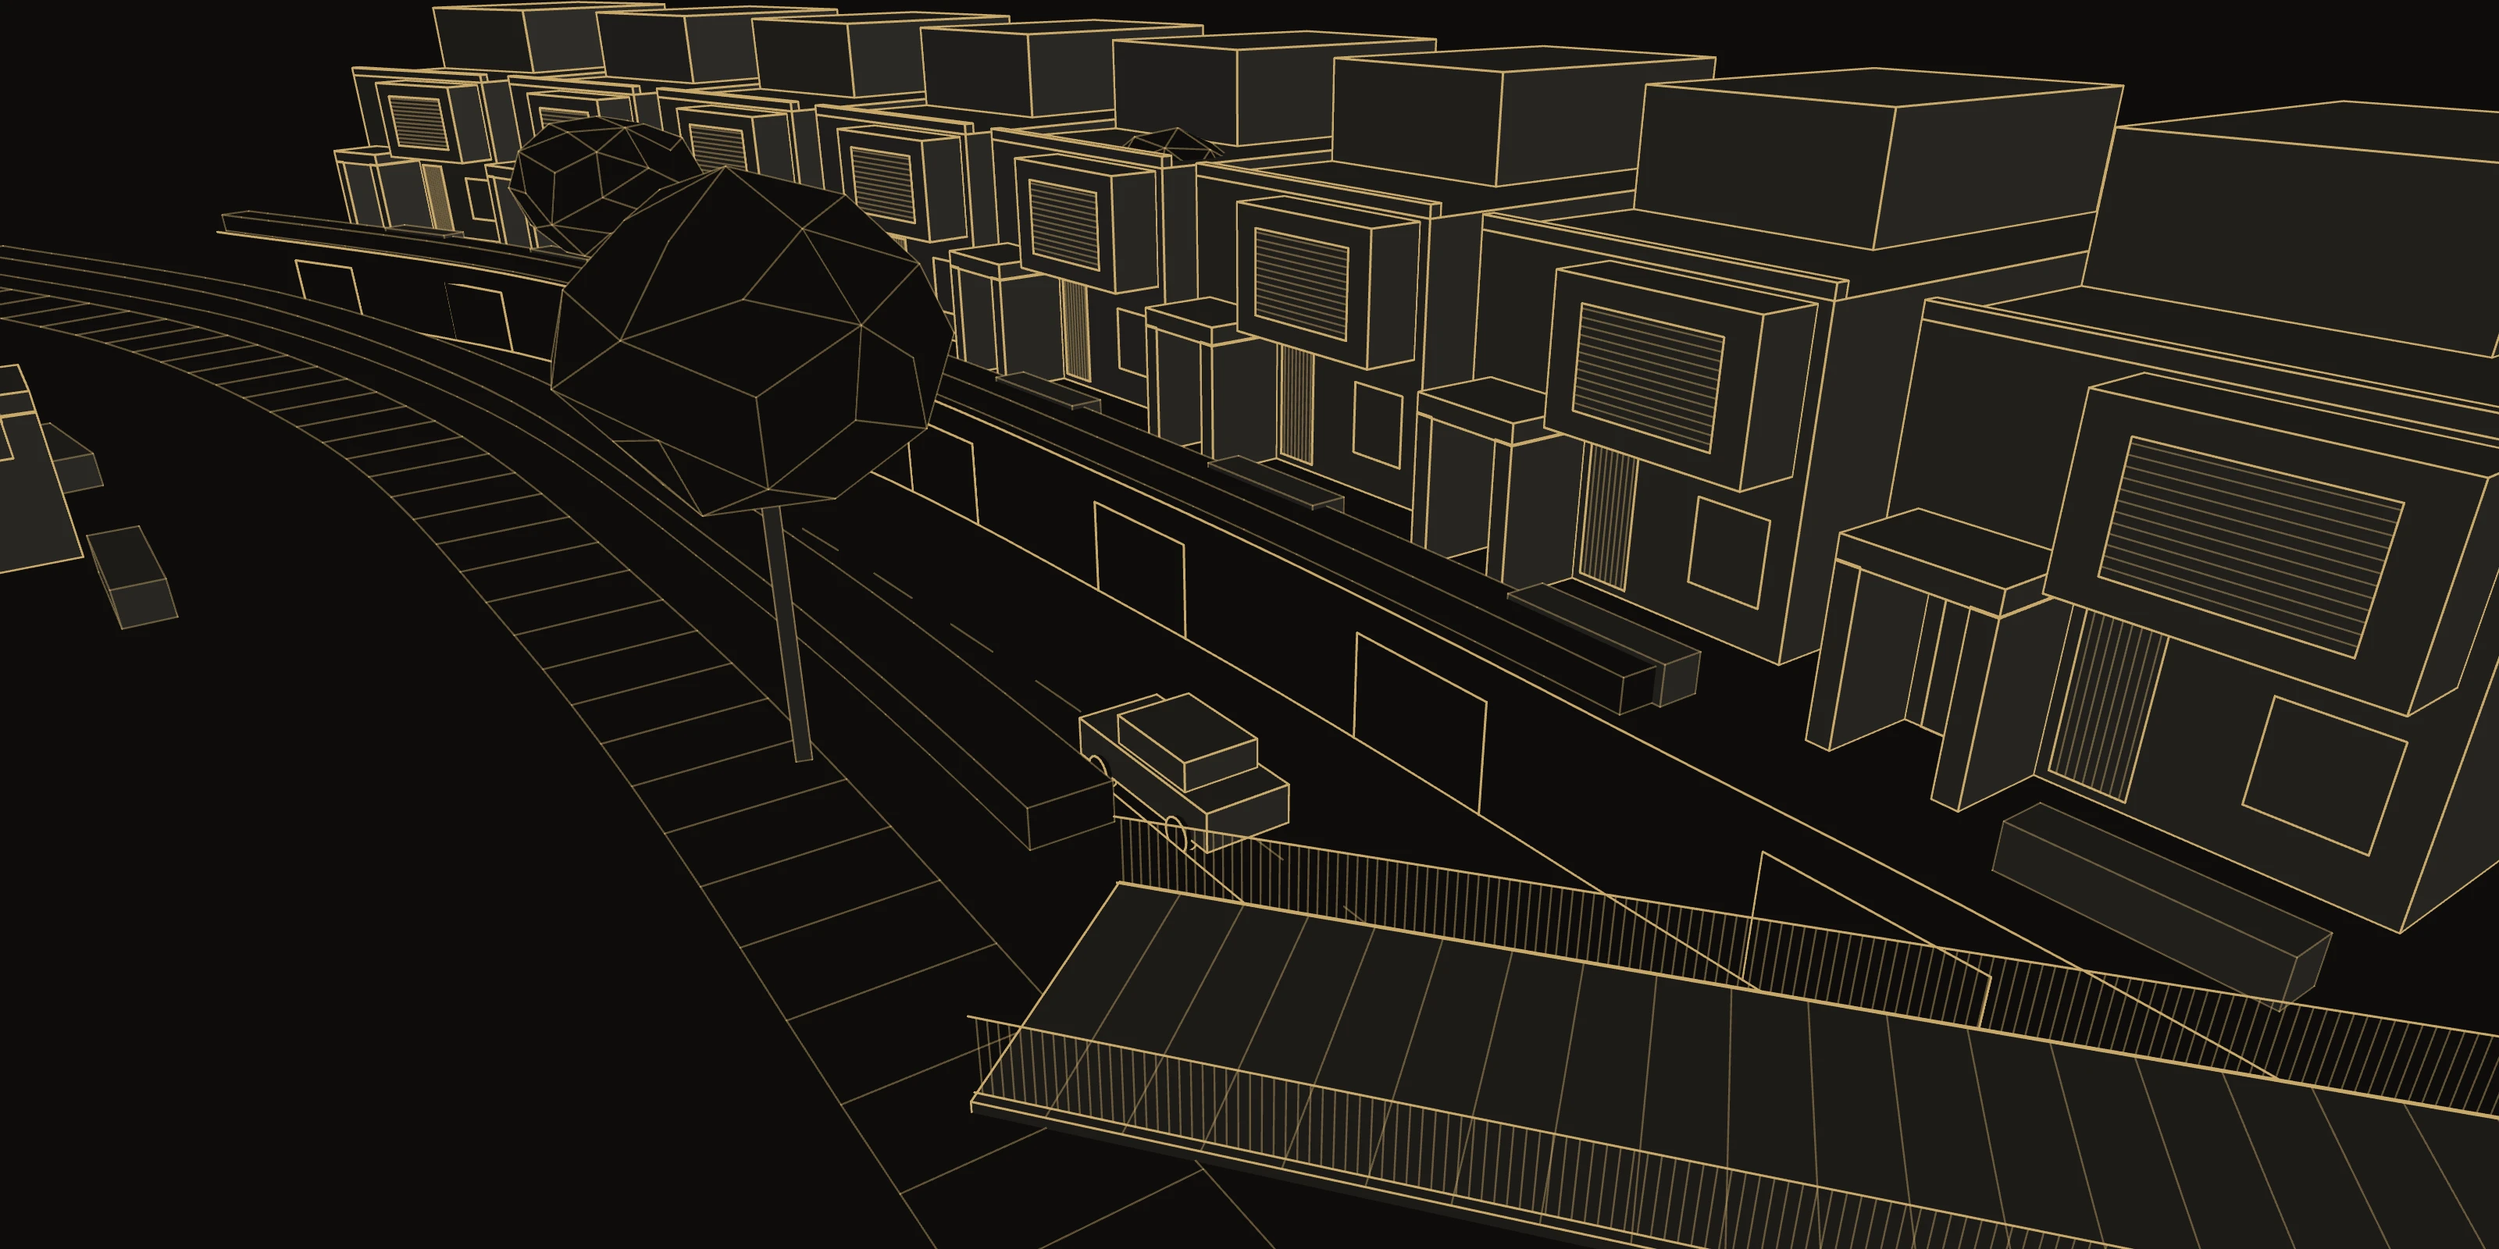
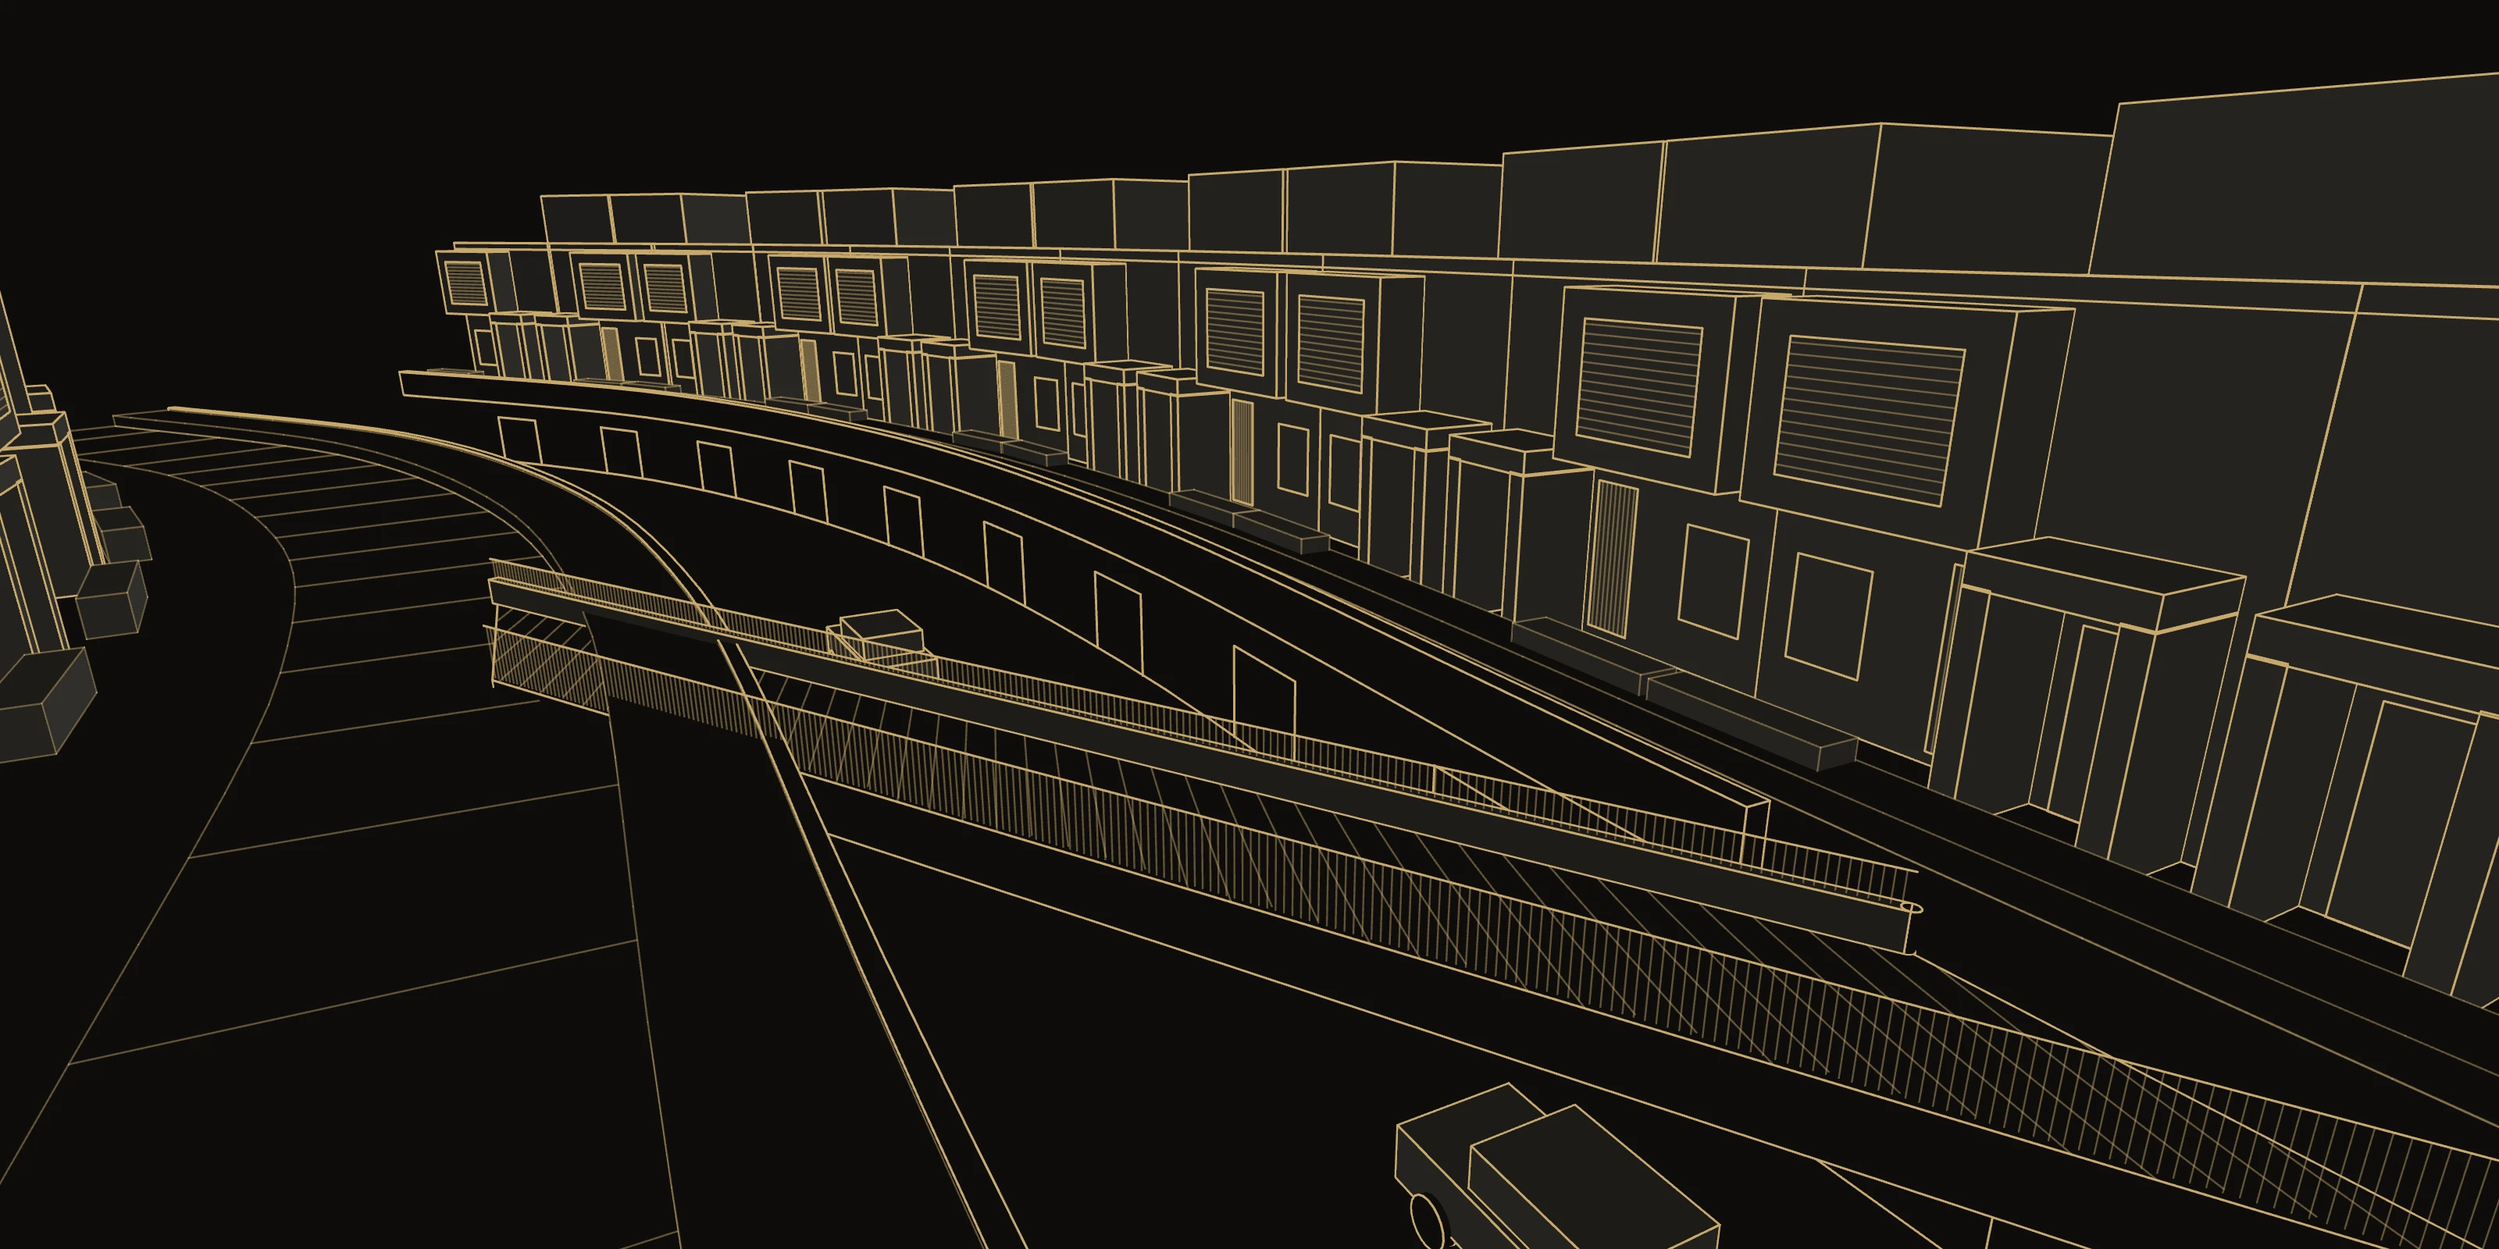
Walkway redrawn from the brochure image
The scene is rebuilt from the brochure's walkway image (page 10, the
same render as the website's), not from the earlier tracing. Camera,
road width, wall height and bridge position are solved from lines read
off the image (tools/ink/fit-walkway.cjs): the foot and top of the right
retaining wall, the foot of the house portals, the top of both bridge
parapets and the parapet's rounded end. The bridge is drawn as the
image shows it: a thick white deck cut along the road at each end, dense
white bars on the near edge, a low solid wall with bars on the far edge
ending in a rounded end on the walk in front of the houses, diagonal
paving. Right bank: garage openings, a solid white wall, the walk, a
planter, the houses (taller, to match the image). Left bank: a low wall,
a planter, the wide walk, the other row. Overlay: both parapets and the
car under the bridge land on the image.

Claude-Session: https://claude.ai/code/session_01C95DWHDY8NmwjfweiUBywE

diff --git a/tools/drawings/scenes/walkway.js b/tools/drawings/scenes/walkway.js
@@ -19,7 +19,10 @@ function along(pts, s) {
 
 /** 白色方盒子房子：局部正面在 z = 0 朝 +z，宽 8.4 */
 function whiteHouse(k, x, z, ry, flip = false) {
-  const { box, seg } = k.place(x, z, ry), f = flip ? -1 : 1
+  // heights 1.2× the first tracing: against the render the houses stand that much taller over their door portals
+  const pl = k.place(x, z, ry), f = flip ? -1 : 1, Y = 1.2
+  const box = (bx, by, bz, w, h, d, o) => pl.box(bx, by * Y, bz, w, h * Y, d, o)
+  const seg = (pairs, soft) => pl.seg(pairs.map(([p, q]) => [[p[0], p[1] * Y, p[2]], [q[0], q[1] * Y, q[2]]]), soft)
   const rect = (x0, y0, x1, y1, zz, soft = false) => seg([[[x0, y0, zz], [x1, y0, zz]], [[x1, y0, zz], [x1, y1, zz]], [[x1, y1, zz], [x0, y1, zz]], [[x0, y1, zz], [x0, y0, zz]]], soft)
   box(0, 3.3, -6.5, 8.4, 6.6, 13)                                            // 两层主体
   box(-f * 1.2, 7.9, -8.5, 6, 2.6, 8)                                       // 三楼往后退
@@ -41,98 +44,98 @@ function whiteHouse(k, x, z, ry, flip = false) {
   box(f * 2.2, 0.4, 2.6, 3.8, 0.8, 0.9, { soft: true })                     // 门前花槽
 }
 
-// the bridge, placed against the render: moved SH metres along the road from where the line drawing first had it
-const SH = 0, SHIFT = [-0.24 * SH, -0.97 * SH]
-export const BRIDGE = { A: [-6.4 + SHIFT[0], 3.2 + SHIFT[1]], B: [10 + SHIFT[0], 14.6 + SHIFT[1]], W: 4.6, shift: SHIFT }
+// ── 照手册第 10 页（同网站效果图）重画：一条下沉的车道笔直往远处去、远处往左弯；右岸是挡土墙（墙上一户一个车库口）、
+// 墙顶一道白色实墙、一条铺地人行道、一排花槽、一排白房子；左岸是车道边一道矮白墙 + 花槽、宽的铺地人行道、再过去另一排房子。
+// 人行桥从左岸人行道斜着跨过车道，落在右岸、房子前的人行道上。米数按图估，镜头对着效果图调。
+// fitted to the render (lines through the road's vanishing point, the bridge's two parapets): see tools/ink/fitw notes in the commit
+const DEPTH = 3.2, HALF = 5.6, WALL = 1.3, PORTAL = 4.5
+// the bridge: left end on the left-bank walk, right end on the walk in front of the houses (x across the road, z along it)
+export const BRIDGE = { A: [-8.15, -8.4], B: [3.56, 11.3], W: 3.5 }
+export const VIEW = { eye: [-8.2, 8.9, 21.2], at: [7.8, -1.35, -8.6], fov: 51.5 }
 
 export default function walkway(k) {
-  const { tree, bush, smoothLine, line, slabShape, seg, box, mesh } = k
-  const eye = [-9, 12, 19], DEPTH = 3.2
+  const { smoothLine, line, slabShape, seg, box, mesh } = k
   k.groundPlane(-DEPTH)
-
-  // ── 下沉车道：中线、两边挡土墙（左右两大块地面从车道底挤到 0）
-  const C = smoothLine([[6.5, 40], [3.5, 14], [0, 0], [-4.5, -14], [-11, -30], [-21, -46], [-34, -60]], 8)
-  const LE = offset(C, 4), RE = offset(C, -4)
-  // 两岸地面 + 两道挡土墙：沿车道的条带（不三角剖分），边线自己画
-  k.ribbon(LE, offset(C, 90), 0, 0); k.ribbon(RE, offset(C, -90), 0, 0)
+  // the road's centre line: straight past the bridge, bending left far away (offset > 0 is the left bank)
+  const C = smoothLine([[0, 34], [0, 10], [0, -12], [-2.5, -30], [-9, -48], [-20, -64]], 8)
+  const LE = offset(C, HALF), RE = offset(C, -HALF)
+  k.ribbon(LE, offset(C, 60), 0, 0); k.ribbon(RE, offset(C, -60), 0, 0)
   k.ribbon(LE, LE, 0, -DEPTH); k.ribbon(RE, RE, 0, -DEPTH)
-  // 边线只画到相机前面（穿过相机平面的长线段会被线材质裁成很怪的斜线）
-  const front = (pts) => pts.filter(([, z]) => z < eye[2] - 2)
-  line(front(LE), 0); line(front(RE), 0); line(front(LE), -DEPTH); line(front(RE), -DEPTH)
-  // 车道中线（虚线，软）
-  const dash = []
-  for (let i = 0; i < C.length - 1; i += 2) dash.push([[C[i][0], -DEPTH + 0.01, C[i][1]], [C[i + 1][0], -DEPTH + 0.01, C[i + 1][1]]])
-  seg(dash, true)
+  line(LE, 0); line(RE, 0); line(LE, -DEPTH); line(RE, -DEPTH)
+  const strip = (d0, d1, y0, h, o = {}) => slabShape([...offset(C, d0), ...offset(C, d1).reverse()], y0, h, o.soft ?? true)
 
-  // ── 右边一排房子 + 每户下面一个车库口（在挡土墙上）
-  const RH = offset(C, -4 - 4.2), GAR = offset(C, -4 + 0.02)
-  for (let s = 6, i = 0; s < 130; s += 10, i++) {
-    const a = along(RH, s); if (!a) break
-    const [[x, z], [tx, tz]] = a, nx = tz, nz = -tx                         // 朝车道（左法线）
-    const ry = Math.atan2(nx, nz)
-    if (z > 12 || z < -70) continue
-    whiteHouse(k, x, z, ry, false)
-    const g = along(GAR, s); if (!g) continue
-    const [[gx, gz], [gtx, gtz]] = g, h = 2.4
-    const p = [gx - gtx * 1.9, gz - gtz * 1.9], q = [gx + gtx * 1.9, gz + gtz * 1.9]
-    seg([[[p[0], -DEPTH, p[1]], [p[0], -DEPTH + h, p[1]]], [[p[0], -DEPTH + h, p[1]], [q[0], -DEPTH + h, q[1]]], [[q[0], -DEPTH + h, q[1]], [q[0], -DEPTH, q[1]]]])
+  // ── right bank: a garage opening per house in the retaining wall, a solid white wall along the top,
+  //    the paved walk, a planter, the houses
+  const GAR = offset(C, -HALF + 0.02)
+  for (let s = 3; s < 110; s += 8.4) {
+    const a = along(GAR, s), b = along(GAR, s + 3); if (!a || !b) break
+    const [[x0, z0]] = a, [[x1, z1]] = b
+    seg([[[x0, -DEPTH, z0], [x0, -DEPTH + 2.4, z0]], [[x0, -DEPTH + 2.4, z0], [x1, -DEPTH + 2.4, z1]], [[x1, -DEPTH + 2.4, z1], [x1, -DEPTH, z1]]])
   }
-  // 左边远处一排（只看得到一部分）
-  const LH = offset(C, 4 + 14)
-  for (let s = 20; s < 130; s += 10) {
+  const beyond = ([x, z]) => { const { A, B, W } = BRIDGE, dx = B[0] - A[0], dz = B[1] - A[1], L = Math.hypot(dx, dz); return Math.abs(((x - A[0]) * -dz + (z - A[1]) * dx) / L) > W / 2 }   // the parapet stops where the bridge lands          // the parapet stops where the bridge lands
+  const runs = (pts) => { const out = []; let cur = []; pts.forEach((p) => { if (beyond(p)) cur.push(p); else if (cur.length) { out.push(cur); cur = [] } }); if (cur.length) out.push(cur); return out }
+  const P0 = offset(C, -HALF), P1 = offset(C, -HALF - 0.45)
+  for (const r of runs(P0.map((p, i) => [...p, i]))) {
+    const idx = r.map((p) => p[2]); if (idx.length < 2) continue
+    slabShape([...idx.map((i) => P0[i]), ...idx.map((i) => P1[i]).reverse()], 0, WALL)
+  }
+  line(offset(C, -HALF - 3.0), 0.01, true)                                               // walk / planter edge
+  strip(-HALF - 3.0, -HALF - PORTAL + 0.1, 0, 0.55)                                      // planter in front of the houses
+  const RH = offset(C, -HALF - PORTAL - 2.0)                                              // house fronts: the portals stand 2 m proud
+  for (let s = 0, i = 0; s < 120; s += 8.4, i++) {
+    const a = along(RH, s); if (!a) break
+    const [[x, z], [tx, tz]] = a
+    if (z > 40) continue
+    whiteHouse(k, x, z, Math.atan2(tz, -tx), i % 2 === 1)               // facing the road
+  }
+
+  // ── left bank: a low white wall at the road edge, a planter, the wide paved walk, the other row of houses
+  strip(HALF, HALF + 0.3, 0, 0.6, { soft: false })
+  strip(HALF + 0.3, HALF + 2.6, 0, 0.5)
+  line(offset(C, HALF + 2.6), 0.01, true); line(offset(C, HALF + 8.4), 0.01, true)
+  const pj = [], Q1 = offset(C, HALF + 2.6), Q2 = offset(C, HALF + 8.4)
+  for (let i = 0; i < Q1.length; i += 2) pj.push([[Q1[i][0], 0.01, Q1[i][1]], [Q2[i][0], 0.01, Q2[i][1]]])
+  seg(pj, true)
+  const LH = offset(C, HALF + 14.5)
+  for (let s = 12; s < 120; s += 8.4) {
     const a = along(LH, s); if (!a) break
     const [[x, z], [tx, tz]] = a
-    if (z > -8) continue
+    if (z > 0) continue
     whiteHouse(k, x, z, Math.atan2(-tz, tx), true)
   }
 
-  // ── 两岸的花槽（桥落脚的地方断开）+ 左边人行道
-  const strip = (pts, d0, d1, keep) => {
-    const a = offset(pts, d0), b = offset(pts, d1), runs = []
-    let cur = []
-    a.forEach((p, i) => { if (keep(p)) cur.push(i); else if (cur.length) { runs.push(cur); cur = [] } })
-    if (cur.length) runs.push(cur)
-    for (const r of runs) if (r.length > 2) slabShape([...r.map((i) => a[i]), ...r.map((i) => b[i]).reverse()], 0, 0.7, true)
-  }
-  const offBridge = ([, z]) => z < BRIDGE.A[1] - 3.2 || z > BRIDGE.B[1] + 4.4
-  strip(C, -4.4, -5.6, offBridge); strip(C, 4.4, 5.8, offBridge)
-  line(offset(C, 7.2), 0.01, true); line(offset(C, 10), 0.01, true)
-  const pj = [], P1 = offset(C, 7.2), P2 = offset(C, 10)
-  for (let i = 0; i < P1.length; i++) pj.push([[P1[i][0], 0.01, P1[i][1]], [P2[i][0], 0.01, P2[i][1]]])
-  seg(pj, true)
-
-  // ── 人行桥：斜着跨过车道，桥面 + 两边密竖条栏杆 + 桥面铺地缝
+  // ── the bridge, as the render draws it: a thick white deck (about 1 m of white edge shows over the road),
+  //    dense white bars along the near edge, a low solid wall with bars on it along the far edge ending in a rounded end
+  //    where it lands by the houses, paving laid in long diagonal strips
+  // its two ends are cut along the line of the road, as in the render: the far parapet stops (rounded end) at the edge of
+  // the right-hand walk while the near edge runs on towards the camera
   const { A, B, W } = BRIDGE, dx = B[0] - A[0], dz = B[1] - A[1], L = Math.hypot(dx, dz)
   const ux = dx / L, uz = dz / L, vx = -uz, vz = ux
-  // 照效果图：桥面是一块厚的白板（跨过车道那段看得到约 1 m 厚的白色板边），近的一边板边上一排密白竖条，
-  // 远的一边是一道矮的白实墙、墙上再一排竖条，在桥落到房子前人行道的那头收成圆头；桥面铺地是斜向的长条
-  const RY = Math.atan2(-dz, dx), cx = (A[0] + B[0]) / 2, cz = (A[1] + B[1]) / 2
-  box(cx, -0.85, cz, L, 1.0, W, { ry: RY })                                            // 桥板：面在 0.15
-  const far = (t, y) => [A[0] + ux * t - vx * (W / 2 - 0.12), y, A[1] + uz * t - vz * (W / 2 - 0.12)]
-  box(cx - vx * (W / 2 - 0.12), 0.45, cz - vz * (W / 2 - 0.12), L, 0.6, 0.24, { ry: RY })                // 远边的矮实墙
-  const [ex, , ez] = far(L, 0)
-  mesh(new k.THREE.CylinderGeometry(0.12, 0.12, 0.6, 16).translate(ex, 0.45, ez), { angle: 40 })        // 墙在落脚那头的圆头
+  const XL = -HALF - 4.4, XR = HALF + 0.45                                                     // left walk / right walk
+  const side = (sgn, inset = 0) => { const o = sgn * (W / 2 - inset), px = A[0] + vx * o, pz = A[1] + vz * o; return (X) => [X, px === X ? pz : pz + ((X - px) / ux) * uz] }
+  const far = side(-1), near = side(1), farIn = side(-1, 0.12), nearIn = side(1, 0.12)
+  slabShape([far(XL), far(XR), near(XR), near(XL)], -0.85, 1.0, false)                         // the deck: a thick white slab, top at 0.15
+  const wall = [farIn(XL), farIn(XR)], wl = Math.hypot(wall[1][0] - wall[0][0], wall[1][1] - wall[0][1])
+  box((wall[0][0] + wall[1][0]) / 2, 0.45, (wall[0][1] + wall[1][1]) / 2, wl, 0.6, 0.24, { ry: Math.atan2(-(wall[1][1] - wall[0][1]), wall[1][0] - wall[0][0]) })
+  mesh(new k.THREE.CylinderGeometry(0.12, 0.12, 0.6, 16).translate(wall[1][0], 0.45, wall[1][1]), { angle: 40 })   // the rounded end
   const rails = [], soft = []
-  for (const [sgn, y0] of [[1, 0.15], [-1, 0.75]]) {
-    const ox = vx * sgn * (W / 2 - 0.12), oz = vz * sgn * (W / 2 - 0.12)
-    const P = (t, y) => [A[0] + ux * t + ox, y, A[1] + uz * t + oz]
-    rails.push([P(0, 1.25), P(L, 1.25)])
-    for (let t = 0.1; t < L; t += 0.13) soft.push([P(t, y0), P(t, 1.25)])
+  for (const [S, y0] of [[nearIn, 0.15], [farIn, 0.75]]) {
+    const [p, q] = [S(XL), S(XR)], len = Math.hypot(q[0] - p[0], q[1] - p[1])
+    const at = (t, y) => [p[0] + ((q[0] - p[0]) * t) / len, y, p[1] + ((q[1] - p[1]) * t) / len]
+    rails.push([at(0, 1.25), at(len, 1.25)])
+    for (let t = 0.1; t < len; t += 0.13) soft.push([at(t, y0), at(t, 1.25)])
   }
-  // 斜向的长条铺地
-  for (let t = -W; t < L; t += 0.7) {
-    const t0 = Math.max(0, t), t1 = Math.min(L, t + W * 0.9)
-    if (t1 <= t0) continue
-    const s0 = ((t0 - t) / (W * 0.9)) * W - W / 2, s1 = ((t1 - t) / (W * 0.9)) * W - W / 2
-    soft.push([[A[0] + ux * t0 + vx * s0, 0.155, A[1] + uz * t0 + vz * s0], [A[0] + ux * t1 + vx * s1, 0.155, A[1] + uz * t1 + vz * s1]])
+  // paving in long diagonal strips, clipped to the deck
+  const inDeck = (x, z) => { if (x < XL || x > XR) return false; const o = (x - A[0]) * vx + (z - A[1]) * vz; return Math.abs(o) < W / 2 }
+  for (let t = -40; t < 60; t += 0.7) {
+    const p = [A[0] + ux * t - vx * W / 2, A[1] + uz * t - vz * W / 2], q = [p[0] + ux * W * 0.9 + vx * W, p[1] + uz * W * 0.9 + vz * W]
+    const pts = []; for (let i = 0; i <= 20; i++) { const x = p[0] + ((q[0] - p[0]) * i) / 20, z = p[1] + ((q[1] - p[1]) * i) / 20; if (inDeck(x, z)) pts.push([x, 0.155, z]) }
+    if (pts.length > 1) soft.push([pts[0], pts.at(-1)])
   }
   seg(rails); seg(soft, true)
 
-  // ── 车：桥下一辆、远处一辆、车库里一辆
-  k.car(3.0 + BRIDGE.shift[0], 17.5 + BRIDGE.shift[1], 0.2, -DEPTH)
-  k.car(-2.2, -6, 0.3, -DEPTH)
-  // 树
-  for (const [x, z, h, r, s] of [[-9, -4, 8.5, 2.8, 1], [-12, -26, 8, 2.4, 2], [12.5, 24, 8, 2.6, 3], [3, -24, 7, 2.2, 4]]) tree(x, z, h, r, s)
-  for (const [x, z, r] of [[-7.6, 22, 1.4], [-6.4, 18, 1.2], [-8.4, 26, 1.6]]) bush(x, z, r, x * z)
-  return { eye, at: [0.5, -1.5, -10], fov: 44 }
+  // ── cars on the road: one under the bridge, one further along
+  k.car(1.0, 12, 0, -DEPTH)
+  k.car(-1, -14, 0.05, -DEPTH)
+  return VIEW
 }

diff --git a/src/ink/adapter.js b/src/ink/adapter.js
@@ -41,6 +41,7 @@ export function treeGeometry(x, z, h, seed, { depth = 8, spread = 1 } = {}) {
  * flat paper, faint lines, no shadow of its own, so the eye stays on the subject. No focus: everything is drawn in full.
  */
 export function adaptKit(ink, focus = null) {
+  if (typeof location !== 'undefined' && /nofocus/.test(location.search)) focus = null   // test pages: every line in full, for overlays
   const inFocus = (x, y, z) => !focus || focus(x, y, z)
   const centre = (g) => { g.computeBoundingBox(); const c = new THREE.Vector3(); g.boundingBox.getCenter(c); return c }
   const GHOST = (a) => 1 - (1 - a) * 0.06
